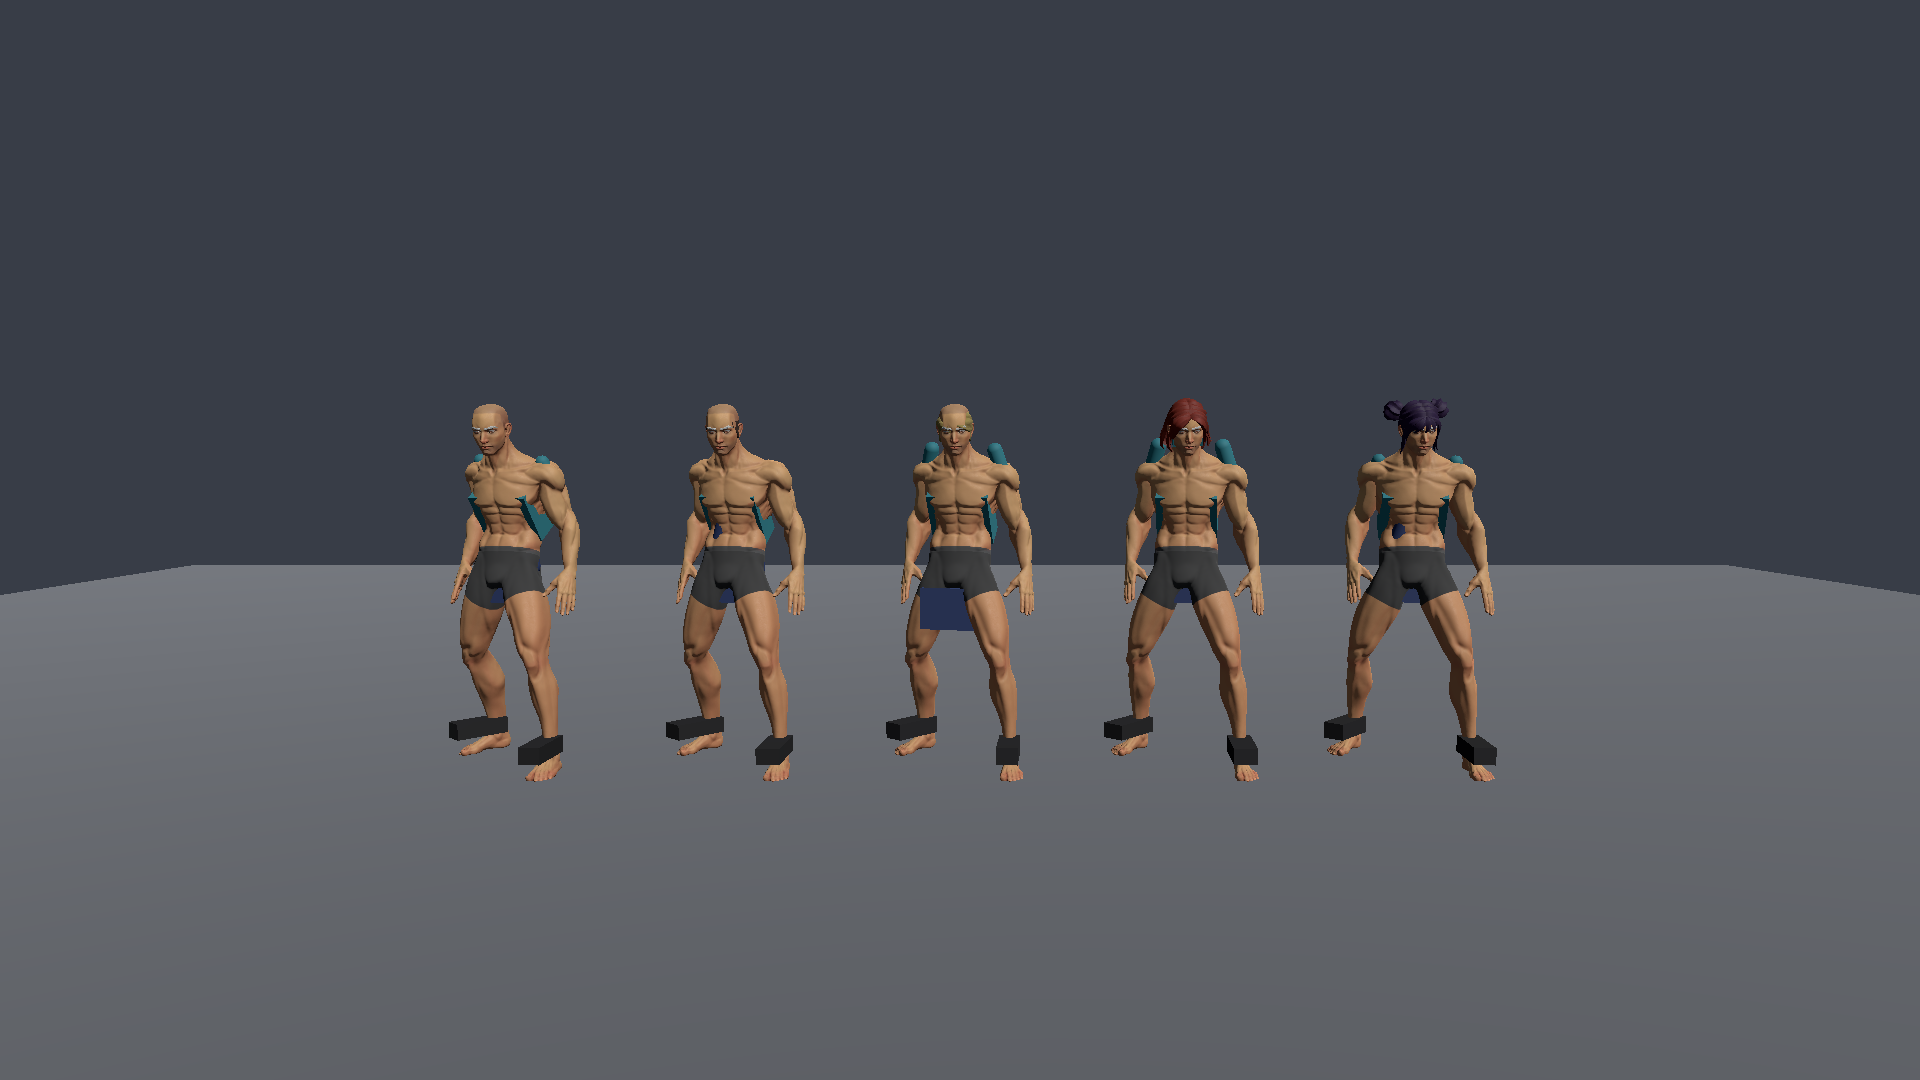
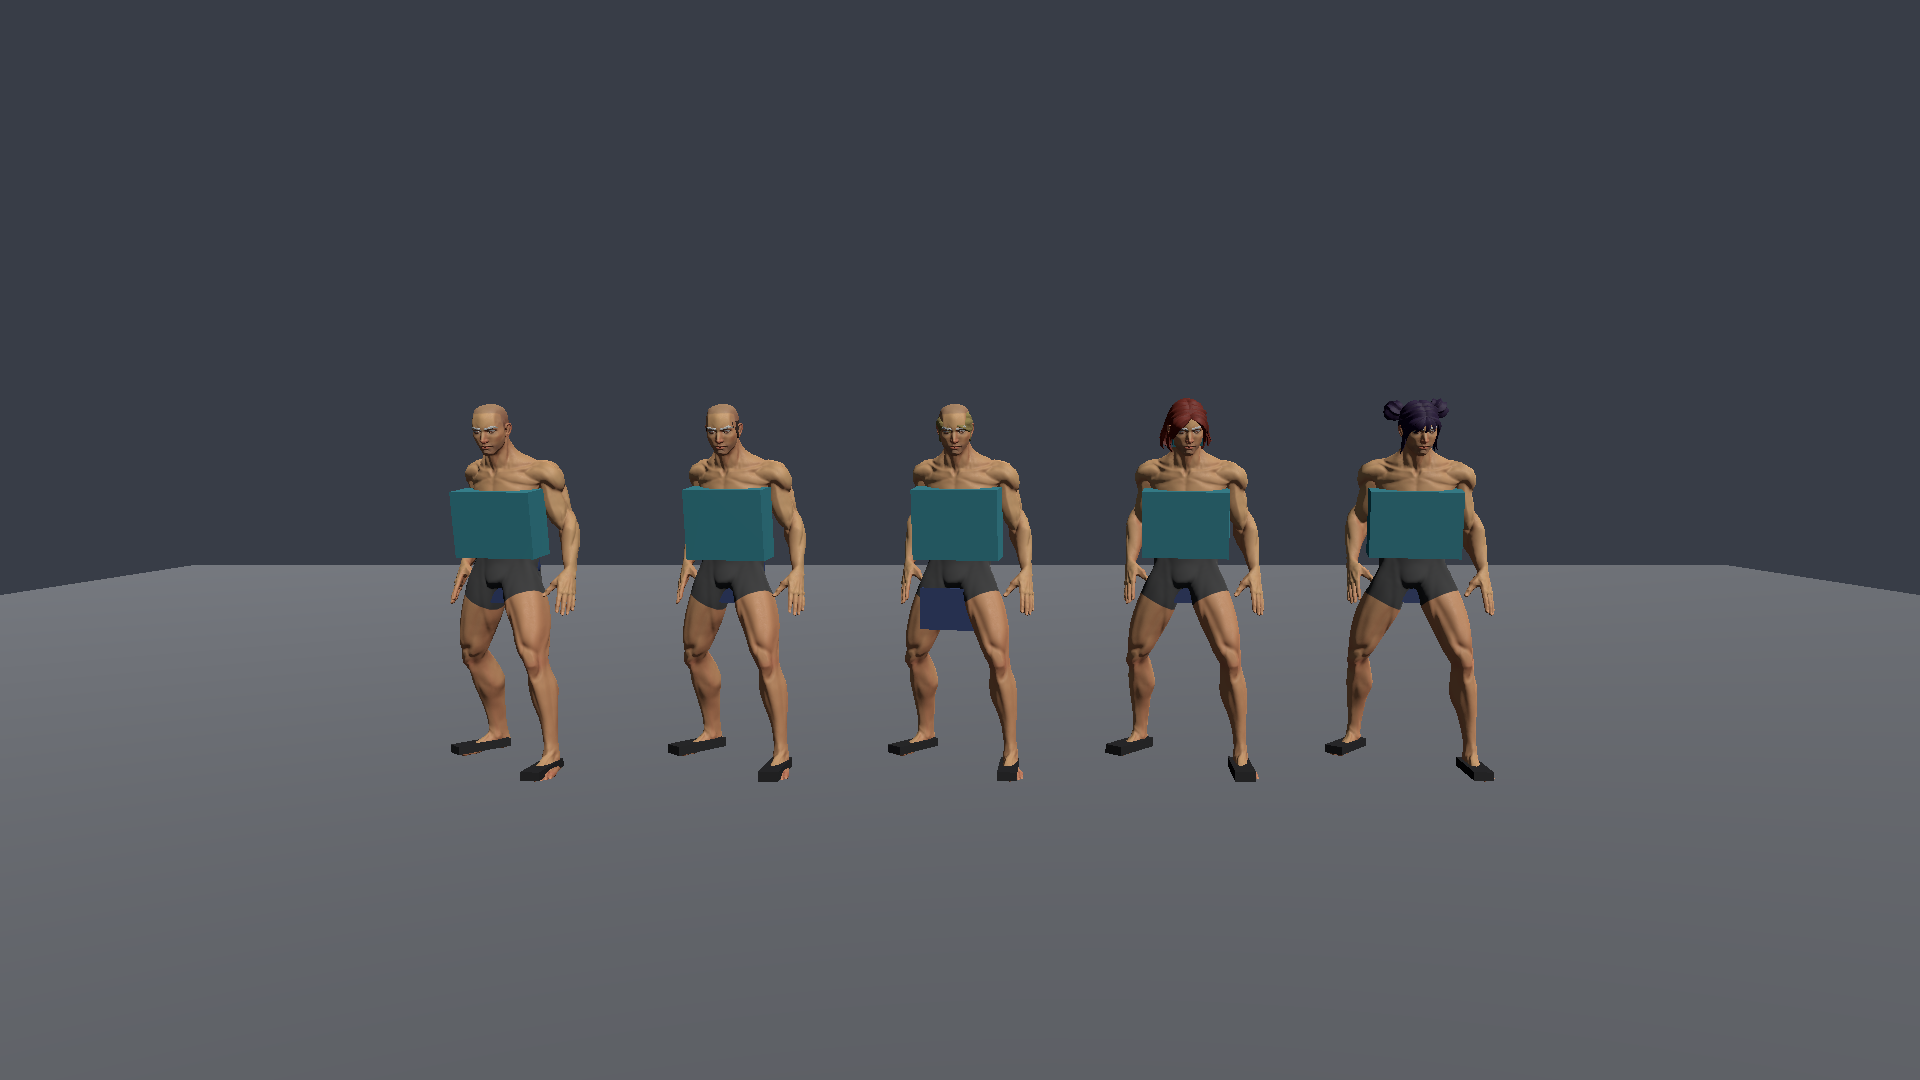
Recheck Art Pass 01 critical character PNGs after fix3.
Independent open-PNG review on main 7ee5fde meets temporary clothing rules; mark VISUAL_ART_PASS_01 READY.

diff --git a/docs/agent/qa/VISUAL_ART_PASS_01_QA.md b/docs/agent/qa/VISUAL_ART_PASS_01_QA.md
@@ -1,18 +1,18 @@
 # VISUAL ART PASS 01 — Independent QA
 
-**Task ID:** AP1-QA / AP1-QA-RECHECK  
+**Task ID:** AP1-QA / AP1-QA-FINAL-RECHECK  
 **Date:** 2026-08-09  
 **QA agent:** df-qa-worker (independent capture + open-PNG review)  
-**Source (main):** `328ce66dd56c4c93019644cef6e76a7919da3e0e` (`328ce66`, post-`ec64c55` silhouette fix2)  
-**Prior source reviewed:** `ec64c55` (NOT READY — giant box clothing / broken hair / missing shoes)  
+**Source (main):** `7ee5fdef23ffcf2676b95fe2a9bf796785a3db6e` (`7ee5fde`, fix3 after `328ce66` — chest tops + flat foot shoes)  
+**Prior source reviewed:** `328ce66` (NOT READY — walk hollow/back-plate clothing + ankle IK shoe cubes)  
 **Review branch:** `visual-review/art-pass-01-20260809`  
-**Screenshot path:** `_review/art_pass_01/` (also mirrored under `tmp/art_pass_01/`)
+**Screenshot path:** `_review/art_pass_01/`
 
 ## Overall status
 
-**NOT READY**
+**READY**
 
-Idle front lineups (`03`/`05`/`07`) show clear improvement after `328ce66` (hair on scalp, tops as thin close shells, both shoe-slot meshes). City/cafe remain accepted from prior review and were not re-captured. Blocking remains: **walk poses still show floating/hollow clothing + female hair detach**, and **shoes still read as black ankle cuboids / debug blocks** (DoD: clothing/shoes must not read as debug cubes).
+Independent recapture of the four critical character shots on main `@7ee5fde` meets TZ temporary clothing rules: hair seated on scalp, tops read as solid chest shells (not back plates / giant hollow frames), shoes are flat soles under both feet (not ankle IK cubes), and walk poses remain readable. City/cafe/regression frames retained from prior accepted set (not re-captured this pass).
 
 ---
 
@@ -20,123 +20,117 @@ Idle front lineups (`03`/`05`/`07`) show clear improvement after `328ce66` (hair
 
 | Criterion | Status | Evidence |
 |---|---|---|
-| Branch from latest main @ `328ce66` | **PASS** | Rebased `visual-review/art-pass-01-20260809` onto `328ce66` |
-| TZ screenshot set 1920×1080 | **PASS** | Chars `01`–`09` re-captured; city/cafe/regression kept from prior set (already accepted) |
-| Publish under `_review/art_pass_01/` + push review branch | **PASS** | Recheck chars force-added; review branch push |
-| Characters: real hair (not primitive towers / not face) | **WARNING** | Idle fronts: scalp OK. Walk `09`: floating hair mass behind scalp. Some male styles still sparse cards |
-| Characters: clothing silhouettes not giant boxes | **FAIL** | Idle fronts thin close shells (**improved**). Walk `08`/`09`: floating/hollow teal planes around torso still player-visible |
-| Characters: both shoes | **FAIL** | Both feet have shoe-slot meshes, but they still read as black rectangular ankle cubes with bare feet visible — not readable footwear |
-| Characters: bottoms covering legs | **PASS** (minimal) | Boxers / bikini bottoms cover pelvis + upper thigh; female hip blue plane in `05` is a thin bottom shell artifact (WARN) |
-| City / cafe / regression | **PASS** (prior) | Not re-captured this recheck; prior acceptance retained |
-| donor / women_modular prod refs | **PASS** (prior) | Unchanged since prior AP1-QA |
-| Automated presentation ≠ visual readiness | **FAIL gate** | PNG open review remains hard gate; walk/shoes still fail DoD |
+| Branch from latest main @ `7ee5fde` | **PASS** | Review branch reset onto `origin/main` (`7ee5fde`) |
+| TZ screenshot set 1920×1080 | **PASS** | Critical chars `03`/`05`/`08`/`09` re-captured; remaining set retained |
+| Publish under `_review/art_pass_01/` + push review branch | **PASS** | Four PNGs overwritten + QA md; review branch push |
+| Hair on scalp (not face / not floating) | **PASS** | Idle fronts scalp-correct; female walk hair seated; male walk uses short/near-bald style 1 (not floating) |
+| Top on chest (not back plate / not giant hollow frame) | **PASS** | Teal solid chest boxes on idle + walk for male and female |
+| Shoes flat under BOTH feet (not ankle IK cubes) | **PASS** | Thin black sole slabs under both feet in all four opened shots |
+| Walk still readable | **PASS** | `08`/`09` mid-stride clear (legs/arms counterpose) |
+| City / cafe / regression | **PASS** (prior) | Not re-captured; prior acceptance retained |
+| Temporary clothing remains placeholder boxes | **WARNING** | Expected for TZ temp clothing — opaque teal chest cubes / black sole slabs, not final garments |
 
 ---
 
-## Opened PNG verdicts (critical recheck)
+## Opened PNG verdicts (critical final recheck)
 
 ### `03_male_variants_front.png`
 
 | Check | Result | Seen |
 |---|---|---|
-| Hair on scalp (not face) | **PASS** | 5 males; styles on scalp (bald / short / blond / long red / purple buns); face clear |
-| Tops thin close shells | **PASS** | Teal chest/back pieces sit as thin body-following shells — not giant hollow frames |
-| Both shoes | **FAIL** (pair present, art fail) | Both feet have black rectangular ankle blocks; bare feet still readable |
-| Bottoms covering legs | **PASS** | Dark boxer briefs cover pelvis/upper thighs; one variant has blue front flap |
+| Hair on scalp | **PASS** | Bald / short / blond / long red / purple buns — all on scalp, face clear |
+| Top on chest | **PASS** | Solid teal chest boxes on all five; not backpack/back-plate hollow frames |
+| Shoes flat under both feet | **PASS** | Thin black sole slabs under both feet on all five |
+| Walk readable | n/a | Idle lineup |
 
-**Shot verdict:** silhouette/hair improved vs prior FAIL; shoes still debug cubes → character DoD unmet.
+**Shot verdict:** PASS vs TZ temporary clothing rules.
 
 ### `05_female_variants_front.png`
 
 | Check | Result | Seen |
 |---|---|---|
-| Hair on scalp (not face) | **PASS** | Flat-top / swept / blond bun / red twin buns / bald — on scalp, not face masks |
-| Tops thin close shells | **PASS** | Dark bikini tops + teal back pieces read as thin close shells |
-| Both shoes | **FAIL** (pair present, art fail) | Both feet black block shoes on all five |
-| Bottoms covering legs | **PASS** + **WARN** | Bikini bottoms present; horizontal blue plane through hips (bottom shell) across lineup |
+| Hair on scalp | **PASS** | Flat-top / swept / blond bun / red twin buns / bald — seated on scalp |
+| Top on chest | **PASS** | Solid teal chest cubes centered on torso for all five |
+| Shoes flat under both feet | **PASS** | Flat black soles under both feet; not ankle cubes |
+| Walk readable | n/a | Idle lineup |
 
-**Shot verdict:** major hair/top improvement; shoes + hip plane keep DoD short of READY.
+**Shot verdict:** PASS vs TZ temporary clothing rules.
 
-### `07_mixed_variants.png`
+### `08_male_walk_pose.png`
 
 | Check | Result | Seen |
 |---|---|---|
-| Hair on scalp (not face) | **PASS** | Mixed male/female styles on scalp; no face-cover hair |
-| Tops thin close shells | **PASS** | Female bikini tops close to body; males mostly shirtless + backpack straps (not giant chest boxes) |
-| Both shoes | **FAIL** (pair present, art fail) | All 10 have paired black foot blocks |
-| Bottoms covering legs | **PASS** | Shorts / colored loincloth flaps cover pelvis/upper thighs |
+| Hair on scalp | **PASS** | Short/near-bald style 1; no floating hair mass |
+| Top on chest | **PASS** | Solid teal chest box stays on front of torso during walk (not collapsed back plate) |
+| Shoes flat under both feet | **PASS** | Flat black soles under leading and trailing feet |
+| Walk readable | **PASS** | Clear mid-stride; arms/legs counterpose |
 
-**Shot verdict:** idle mixed lineup no longer dominated by giant teal boxes; shoes still blocky.
+**Shot verdict:** PASS — prior walk clothing/shoes FAIL cleared.
 
-### Supporting recapture (opened)
+### `09_female_walk_pose.png`
 
-| File | Verdict | What was seen |
+| Check | Result | Seen |
 |---|---|---|
-| `01_male_base_clean.png` | **PASS** (clean base) | Bald male, underwear, barefoot — intentional clean base |
-| `02_female_base_clean.png` | **PASS** (clean base) | Clean female base (not re-opened in detail; file refreshed) |
-| `04_male_variants_side.png` | **WARNING** | Side: tops look close; shoe blocks at ankles |
-| `06_female_variants_side.png` | **WARNING** | Side: thin teal shells; bald FG; shoe blocks |
-| `08_male_walk_pose.png` | **FAIL** | Walk: floating cyan/teal torso planes + black ankle cubes; hair sparse card |
-| `09_female_walk_pose.png` | **FAIL** | Walk: hollow teal/black torso frame; hair mass floating behind head; black ankle cubes |
+| Hair on scalp | **PASS** | Dark brown hair seated on scalp (no rear detach) |
+| Top on chest | **PASS** | Solid teal chest box on torso during walk |
+| Shoes flat under both feet | **PASS** | Flat black soles under both feet through stride |
+| Walk readable | **PASS** | Clear mid-stride walk pose |
 
-### City / cafe / regression (not re-captured)
+**Shot verdict:** PASS — prior walk FAIL cleared.
 
-Prior AP1-QA acceptance retained for city megakit / cafe framing / apartment-mine-lab-late regression frames (`20`–`43`).
+### Not re-opened this pass
+
+City/cafe/regression (`20`–`43`) and supporting char shots (`01`/`02`/`04`/`06`/`07`) retained from prior review assets on the branch; prior acceptance kept.
 
 ---
 
-## Automated verification (recheck)
+## Automated verification (final recheck)
 
 Commands:
 
 ```text
 GODOT=C:\godot\Godot_v4.7.1-stable_win64.exe
-# stash unrelated dirty UI, checkout main, pull, rebase review onto main
-godot --path . --windowed --resolution 1920x1080 -s res://tmp/ap1_qa/capture_art_pass_01.gd
-# capture patched to characters-only for AP1-QA-RECHECK
-Copy-Item tmp/art_pass_01/0[1-9]_*.png _review/art_pass_01/ -Force
+git fetch origin main
+git checkout visual-review/art-pass-01-20260809
+git reset --hard origin/main   # -> 7ee5fde
+# restore prior _review set, then overwrite 4 critical PNGs
+godot --path . --windowed --resolution 1920x1080 --script res://tmp/ap1_qa/capture_art_pass_01.gd
+Copy-Item tmp/art_pass_01/{03,05,08,09}_*.png _review/art_pass_01/ -Force
 ```
 
 Results:
 
-- Capture: `AP1_CAPTURE_DONE`, shots `01`–`09` `save=0 1920x1080`, `AP1_CHARS_ONLY skip locations`
+- Capture: `AP1_CAPTURE_DONE`, shots `01`–`09` `save=0 1920x1080`, `AP1_CHARS_ONLY skip locations`, exit 0
+- Engine: Godot 4.7.1-stable / Vulkan Forward+ / RTX 4060 Laptop
+- Stdout: `tmp/ap1_qa/capture_final_recheck_stdout.txt`
 - Log: `tmp/ap1_qa/capture_art_pass_01.log`
-- Stdout: `tmp/ap1_qa/capture_recheck_stdout.txt`
+- Independent hashes differ from implementer `docs/agent/qa/evidence/ap1_chars_fix3/` (fresh capture; same visual conclusions)
 
 ---
 
 ## Blocking issues
 
-1. **Walk poses still break clothing silhouette** (`08`/`09`) — floating/hollow teal planes around torso; DoD clothing resize incomplete under animation.
-2. **Shoes still read as black debug cuboids** on variants/mixed/walk — both slots present, but not readable footwear (DoD: not debug cubes).
-3. **Female walk hair detach** (`09`) — mass floating behind scalp under walk.
+None for TZ temporary clothing acceptance on the four critical shots.
 
 ## Non-blocking issues
 
-1. Female front `05`: blue hip plane through all five (thin bottom shell artifact).
-2. City prior warnings unchanged (blue Area volumes in `22`, pink prism in `25`) — out of recheck scope.
-3. Idle front progress is real vs `ec64c55` review — do not regress those transforms when fixing walk/shoes.
+1. Temporary tops remain obvious opaque teal cubes (allowed by TZ temporary clothing; not final garments).
+2. Temporary shoes remain flat black sole slabs (correct placement; not final footwear art).
+3. Male walk uses hair style `1` which reads nearly bald in this framing — not a detach/placement fail.
+4. City prior warnings unchanged (blue Area volumes in `22`, pink prism in `25`) — out of this recheck scope.
 
 ## Evidence
 
-- Screenshots: `_review/art_pass_01/01`–`09` (recheck), `20`–`43` (prior)
-- Capture log: `tmp/ap1_qa/capture_art_pass_01.log`
-- Capture stdout: `tmp/ap1_qa/capture_recheck_stdout.txt`
-- This report: `docs/agent/qa/VISUAL_ART_PASS_01_QA.md`
+- `_review/art_pass_01/03_male_variants_front.png`
+- `_review/art_pass_01/05_female_variants_front.png`
+- `_review/art_pass_01/08_male_walk_pose.png`
+- `_review/art_pass_01/09_female_walk_pose.png`
+- `tmp/ap1_qa/capture_final_recheck_stdout.txt`
+- `tmp/ap1_qa/capture_art_pass_01.log`
 
 ## Reproduction steps
 
-1. `git checkout main && git pull` → expect `328ce66`.
-2. Stash unrelated dirty UI if needed.
-3. Update `visual-review/art-pass-01-20260809` onto main (rebase/merge).
-4. Run characters-only capture at 1920×1080 via `tmp/ap1_qa/capture_art_pass_01.gd`.
-5. Copy `tmp/art_pass_01/01`–`09` → `_review/art_pass_01/`.
-6. Open `03`, `05`, `07` (and walk `08`/`09`); confirm remaining walk/shoes FAIL.
-
----
-
-## Verdict
-
-**NOT READY**
-
-Idle front variants improved after silhouette fix2, but walk clothing/hair and shoe readability still fail Art Pass 01 DoD. City/cafe remain accepted; character route not READY.
+1. Checkout `main` @ `7ee5fde` (or review branch after this push).
+2. Run windowed capture script `res://tmp/ap1_qa/capture_art_pass_01.gd` at 1920×1080.
+3. Open `_review/art_pass_01/03`, `05`, `08`, `09`.
+4. Confirm chest tops + flat sole shoes + scalp hair + readable walk per TZ temporary clothing rules.
